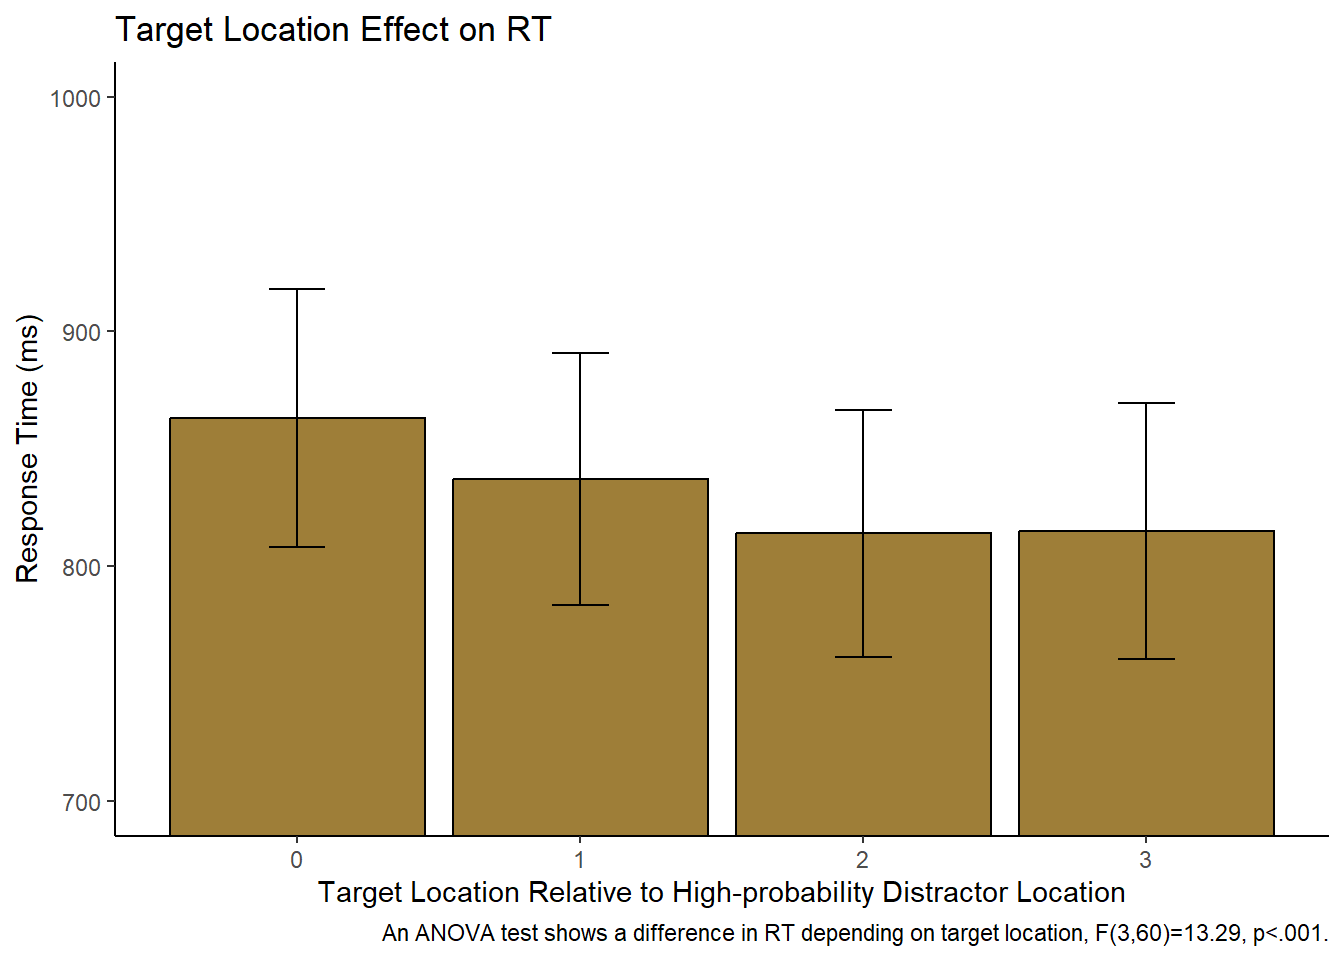
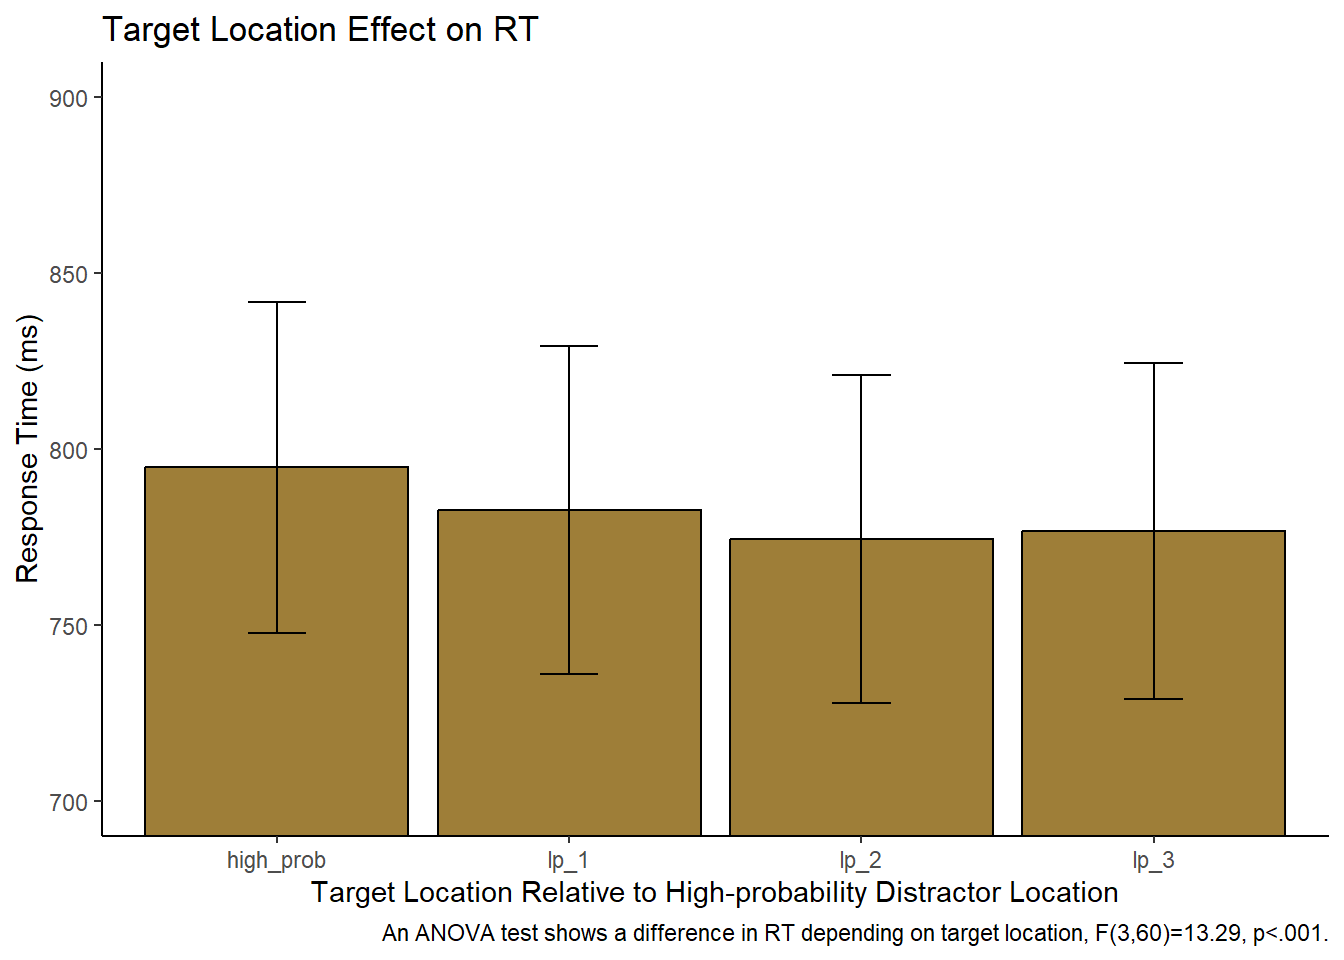
Added graph and t-test for HP and mean LP

diff --git a/docs/p02.html b/docs/p02.html
@@ -370,7 +370,12 @@ function.</p>
                      target_loc==&quot;loc3&quot; &amp; high_prob==6 ~ 3,
                      target_loc==&quot;loc4&quot; &amp; high_prob==6 ~ 2,
                      target_loc==&quot;loc5&quot; &amp; high_prob==6 ~ 1,
-                     target_loc==&quot;loc6&quot; &amp; high_prob==6 ~ 0,))</code></pre>
+                     target_loc==&quot;loc6&quot; &amp; high_prob==6 ~ 0,))
+
+pilot$relative_target[pilot$relative_target == 0] &lt;- &quot;high_prob&quot;
+pilot$relative_target[pilot$relative_target == 1] &lt;- &quot;lp_1&quot;
+pilot$relative_target[pilot$relative_target == 2] &lt;- &quot;lp_2&quot;
+pilot$relative_target[pilot$relative_target == 3] &lt;- &quot;lp_3&quot;</code></pre>
 </div>
 <div id="trim-the-data" class="section level3">
 <h3>Trim the Data</h3>
@@ -400,6 +405,7 @@ statPrep &lt;- trimmed %&gt;% group_by(ID, relative_hp_dist) %&gt;% summarise(me
 distractor location relative to the high-probability location and add
 columns for standard error.</p>
 <pre class="r"><code>target_means &lt;- trimmed %&gt;%
+  filter(relative_hp_dist==&quot;no_dist&quot;) %&gt;%
   group_by(relative_target) %&gt;%
   summarize(mean_rts=mean(RT),
             sd_rt=sd(RT),
@@ -411,11 +417,11 @@ columns for standard error.</p>
 target_means</code></pre>
 <pre><code>## # A tibble: 4 × 7
 ##   relative_target mean_rts sd_rt  n_rt    se upper_limit lower_limit
-##             &lt;dbl&gt;    &lt;dbl&gt; &lt;dbl&gt; &lt;dbl&gt; &lt;dbl&gt;       &lt;dbl&gt;       &lt;dbl&gt;
-## 1               0     863.  252.    21  54.9        918.        808.
-## 2               1     837.  246.    21  53.8        891.        783.
-## 3               2     814.  241.    21  52.7        867.        761.
-## 4               3     815.  251.    21  54.7        870.        760.</code></pre>
+##   &lt;chr&gt;              &lt;dbl&gt; &lt;dbl&gt; &lt;dbl&gt; &lt;dbl&gt;       &lt;dbl&gt;       &lt;dbl&gt;
+## 1 high_prob           795.  215.    21  47.0        842.        748.
+## 2 lp_1                783.  214.    21  46.7        829.        736.
+## 3 lp_2                774.  214.    21  46.6        821.        728.
+## 4 lp_3                777.  219.    21  47.7        824.        729.</code></pre>
 <p>This figure displays the mean response times depending on the
 location of the target relative to the high probability location of the
 distractor. I chose those particular colors based on Wake Forest’s color
@@ -423,13 +429,13 @@ scheme.</p>
 <pre class="r"><code>ggplot(data = target_means, aes(x = relative_target, y = mean_rts)) +
   geom_bar(stat = &quot;identity&quot;, fill=&quot;#9E7E38&quot;, color=&#39;#000000&#39;) +
   geom_errorbar(aes(ymin=lower_limit, ymax=upper_limit), width=0.2)+
-  coord_cartesian(ylim = c(700,1000))+
+  coord_cartesian(ylim = c(700,900))+
   theme_classic()+
   labs(x = &quot;Target Location Relative to High-probability Distractor Location&quot;, y = &quot;Response Time (ms)&quot;)+
   labs(title = &quot;Target Location Effect on RT&quot;)+
   labs(caption = &quot;An ANOVA test shows a difference in RT depending on target location, F(3,60)=13.29, p&lt;.001.&quot;)</code></pre>
 <p><img src="p02_files/figure-html/-%20graph%201%20-%20distractor%20location%20effect%20on%20rt-1.png" width="672" /></p>
-<pre class="r"><code>df2 &lt;- subset(trimmed,block_num!=&#39;7&#39; )
+<pre class="r"><code>df2 &lt;- subset(trimmed,block_num!=&#39;7&#39; &amp; relative_hp_dist==&quot;no_dist&quot;)
 df2 &lt;- subset(df2,block_num!=&#39;8&#39;)
 #df2 &lt;- subset(df2,block_num!=&#39;5&#39;)
 #df2 &lt;- subset(df2,block_num!=&#39;6&#39;)
@@ -444,24 +450,24 @@ space2&lt;- df2 %&gt;%
 <pre><code>## # A tibble: 84 × 3
 ## # Groups:   ID [21]
 ##       ID relative_target   rts
-##    &lt;dbl&gt;           &lt;dbl&gt; &lt;dbl&gt;
-##  1    11               0 1232.
-##  2    11               1 1195.
-##  3    11               2 1204.
-##  4    11               3 1237.
-##  5    12               0  840.
-##  6    12               1  818.
-##  7    12               2  764.
-##  8    12               3  786.
-##  9    13               0  819.
-## 10    13               1  792.
+##    &lt;dbl&gt; &lt;chr&gt;           &lt;dbl&gt;
+##  1    11 high_prob       1150.
+##  2    11 lp_1            1092.
+##  3    11 lp_2            1113.
+##  4    11 lp_3            1150.
+##  5    12 high_prob        802.
+##  6    12 lp_1             779.
+##  7    12 lp_2             729.
+##  8    12 lp_3             742.
+##  9    13 high_prob        771.
+## 10    13 lp_1             766.
 ## # … with 74 more rows</code></pre>
 <pre class="r"><code>aov_car(rts ~ relative_target + Error(ID/relative_target), data=space2)</code></pre>
 <pre><code>## Anova Table (Type 3 tests)
 ## 
 ## Response: rts
-##            Effect          df     MSE         F  ges p.value
-## 1 relative_target 1.84, 36.83 1342.99 12.49 *** .019   &lt;.001
+##            Effect          df     MSE    F  ges p.value
+## 1 relative_target 2.39, 47.74 1058.05 2.29 .004    .103
 ## ---
 ## Signif. codes:  0 &#39;***&#39; 0.001 &#39;**&#39; 0.01 &#39;*&#39; 0.05 &#39;+&#39; 0.1 &#39; &#39; 1
 ## 
@@ -470,6 +476,7 @@ space2&lt;- df2 %&gt;%
 distractor location per participant, so we can do a repeated measures
 ANOVA.</p>
 <pre class="r"><code>space &lt;- trimmed %&gt;%
+  subset(relative_hp_dist==&quot;no_dist&quot;)%&gt;%
   group_by(ID, relative_target) %&gt;%
   summarize(rts = mean(RT),
             )</code></pre>
@@ -479,17 +486,17 @@ ANOVA.</p>
 <pre><code>## # A tibble: 84 × 3
 ## # Groups:   ID [21]
 ##       ID relative_target   rts
-##    &lt;dbl&gt;           &lt;dbl&gt; &lt;dbl&gt;
-##  1    11               0 1198.
-##  2    11               1 1191.
-##  3    11               2 1152.
-##  4    11               3 1214.
-##  5    12               0  808.
-##  6    12               1  792.
-##  7    12               2  750.
-##  8    12               3  753.
-##  9    13               0  792.
-## 10    13               1  768.
+##    &lt;dbl&gt; &lt;chr&gt;           &lt;dbl&gt;
+##  1    11 high_prob       1088.
+##  2    11 lp_1            1083.
+##  3    11 lp_2            1056.
+##  4    11 lp_3            1118.
+##  5    12 high_prob        768.
+##  6    12 lp_1             749.
+##  7    12 lp_2             706.
+##  8    12 lp_3             717.
+##  9    13 high_prob        748.
+## 10    13 lp_1             743.
 ## # … with 74 more rows</code></pre>
 <p>Need to reformat the above df to have a column for each
 relative_hp_dist/ID.</p>
@@ -499,25 +506,31 @@ space_anova &lt;- dcast(space_anova,ID~relative_target,value.var=&#39;rts&#39;)<
 space %&gt;%
   group_by(relative_target) %&gt;%
   identify_outliers(rts)</code></pre>
-<pre><code>## # A tibble: 5 × 5
-##   relative_target    ID   rts is.outlier is.extreme
-##             &lt;dbl&gt; &lt;dbl&gt; &lt;dbl&gt; &lt;lgl&gt;      &lt;lgl&gt;     
-## 1               0    11 1198. TRUE       FALSE     
-## 2               1    11 1191. TRUE       FALSE     
-## 3               2    11 1152. TRUE       FALSE     
-## 4               2    20 1092. TRUE       FALSE     
-## 5               3    11 1214. TRUE       FALSE</code></pre>
+<pre><code>## # A tibble: 11 × 5
+##    relative_target    ID   rts is.outlier is.extreme
+##    &lt;chr&gt;           &lt;dbl&gt; &lt;dbl&gt; &lt;lgl&gt;      &lt;lgl&gt;     
+##  1 high_prob          11 1088. TRUE       FALSE     
+##  2 high_prob          28 1044. TRUE       FALSE     
+##  3 lp_1               11 1083. TRUE       TRUE      
+##  4 lp_1               20  983. TRUE       FALSE     
+##  5 lp_2               11 1056. TRUE       TRUE      
+##  6 lp_2               20 1004. TRUE       FALSE     
+##  7 lp_2               28  931. TRUE       FALSE     
+##  8 lp_3               11 1118. TRUE       TRUE      
+##  9 lp_3               17  603. TRUE       FALSE     
+## 10 lp_3               20 1001. TRUE       FALSE     
+## 11 lp_3               28  966. TRUE       FALSE</code></pre>
 <pre class="r"><code>#testing the normality assumption -- data is normally distributed enough because no conditions have a p-value less than .05
 space %&gt;%
   group_by(relative_target) %&gt;%
   shapiro_test(rts)</code></pre>
 <pre><code>## # A tibble: 4 × 4
 ##   relative_target variable statistic      p
-##             &lt;dbl&gt; &lt;chr&gt;        &lt;dbl&gt;  &lt;dbl&gt;
-## 1               0 rts          0.925 0.110 
-## 2               1 rts          0.911 0.0562
-## 3               2 rts          0.899 0.0332
-## 4               3 rts          0.909 0.0528</code></pre>
+##   &lt;chr&gt;           &lt;chr&gt;        &lt;dbl&gt;  &lt;dbl&gt;
+## 1 high_prob       rts          0.900 0.0352
+## 2 lp_1            rts          0.920 0.0887
+## 3 lp_2            rts          0.903 0.0392
+## 4 lp_3            rts          0.883 0.0164</code></pre>
 <p>Assumption of sphericity is automatically checked during the ANOVA
 test. Next, we’ll do the ANOVA test. The ANOVA shows a significant
 difference among distractor locations, F(1.74,34.86)=12.925,
@@ -526,8 +539,8 @@ p&lt;.001.</p>
 get_anova_table(res.aov)</code></pre>
 <pre><code>## ANOVA Table (type III tests)
 ## 
-##            Effect  DFn   DFd      F        p p&lt;.05   ges
-## 1 relative_target 1.72 34.48 13.286 0.000105     * 0.023</code></pre>
+##            Effect  DFn   DFd     F     p p&lt;.05   ges
+## 1 relative_target 2.18 43.51 2.198 0.119       0.005</code></pre>
 <p>I ran the ANOVA using base R as well because the rstatix package was
 giving me errors when running for accuracy data later on. The rstatix
 packages has a lot of requests and hasn’t been updated in years so I
@@ -538,12 +551,12 @@ summary(model)</code></pre>
 <pre><code>## 
 ## Error: factor(ID)
 ##           Df  Sum Sq Mean Sq F value Pr(&gt;F)
-## Residuals 20 1431400   71570               
+## Residuals 20 1086156   54308               
 ## 
 ## Error: Within
-##                         Df Sum Sq Mean Sq F value   Pr(&gt;F)    
-## factor(relative_target)  3  34363   11454   13.29 9.34e-07 ***
-## Residuals               60  51729     862                     
+##                         Df Sum Sq Mean Sq F value Pr(&gt;F)  
+## factor(relative_target)  3   5130  1709.9   2.198 0.0975 .
+## Residuals               60  46670   777.8                 
 ## ---
 ## Signif. codes:  0 &#39;***&#39; 0.001 &#39;**&#39; 0.01 &#39;*&#39; 0.05 &#39;.&#39; 0.1 &#39; &#39; 1</code></pre>
 <pre class="r"><code>model2 &lt;- aov_car(rts ~ relative_target + Error(ID/relative_target), data=space)
@@ -552,12 +565,60 @@ model2</code></pre>
 <pre><code>## Anova Table (Type 3 tests)
 ## 
 ## Response: rts
-##            Effect          df     MSE         F  ges p.value
-## 1 relative_target 1.72, 34.48 1500.47 13.29 *** .023   &lt;.001
+##            Effect          df     MSE    F  ges p.value
+## 1 relative_target 2.18, 43.51 1072.62 2.20 .005    .119
 ## ---
 ## Signif. codes:  0 &#39;***&#39; 0.001 &#39;**&#39; 0.01 &#39;*&#39; 0.05 &#39;+&#39; 0.1 &#39; &#39; 1
 ## 
 ## Sphericity correction method: GG</code></pre>
+<p>This next section will examine the differences between response times
+when averaging across low-probability locations.</p>
+<pre class="r"><code>space_anova &lt;- space_anova %&gt;%
+  mutate(low_prob = (lp_1+lp_2+lp_3)/3)</code></pre>
+<pre class="r"><code>df_mod &lt;- subset(space_anova, select=c(ID, high_prob, low_prob))
+
+df_mod &lt;- reshape2::melt(df_mod, id.var=c(&#39;ID&#39;), variable.name= &quot;relative_target&quot;)</code></pre>
+<pre class="r"><code>sum_stats2 &lt;- df_mod%&gt;%
+  group_by(relative_target)%&gt;%
+  summarize(mean_rts=mean(value),
+            sd_rt=sd(value),
+            n_rt=21,
+            se=sd_rt/sqrt(n_rt),
+            upper_limit=mean_rts+se,
+            lower_limit=mean_rts-se
+  )
+sum_stats2</code></pre>
+<pre><code>## # A tibble: 2 × 7
+##   relative_target mean_rts sd_rt  n_rt    se upper_limit lower_limit
+##   &lt;fct&gt;              &lt;dbl&gt; &lt;dbl&gt; &lt;dbl&gt; &lt;dbl&gt;       &lt;dbl&gt;       &lt;dbl&gt;
+## 1 high_prob           795.  120.    21  26.1        821.        769.
+## 2 low_prob            778.  117.    21  25.6        803.        752.</code></pre>
+<p>This figure displays the mean response times depending on the
+location of the target relative to the high probability location. I
+chose those particular colors based on Wake Forest’s color scheme.</p>
+<pre class="r"><code>ggplot(data = sum_stats2, aes(x = relative_target, y = mean_rts)) +
+  geom_bar(stat = &quot;identity&quot;, fill=&quot;#9E7E38&quot;, color=&#39;#000000&#39;) +
+  geom_errorbar(aes(ymin=lower_limit, ymax=upper_limit), width=0.2)+
+  coord_cartesian(ylim = c(700,850))+
+  theme_classic()+
+  labs(x = &quot;Target Location&quot;, y = &quot;Response Time (ms)&quot;)+
+  labs(title = &quot;Target Location Effect on RT&quot;)+
+  labs(caption = &quot;A t-test shows a difference in RT depending on distractor location, t(20)=1.91, p=.035.&quot;)</code></pre>
+<p><img src="p02_files/figure-html/-%20graph%202%20-%20target%20location%20effect%20on%20rt-1.png" width="672" /></p>
+<p>Determine if the difference between response times when the target is
+in the high-probabilty vs. low-probability locations is significant.</p>
+<pre class="r"><code>t.test(x=space_anova$high_prob, y=space_anova$low_prob, alternative=&quot;greater&quot;, mu=0,paired = TRUE, conf.level = .95)</code></pre>
+<pre><code>## 
+##  Paired t-test
+## 
+## data:  space_anova$high_prob and space_anova$low_prob
+## t = 1.9136, df = 20, p-value = 0.03504
+## alternative hypothesis: true mean difference is greater than 0
+## 95 percent confidence interval:
+##  1.688679      Inf
+## sample estimates:
+## mean difference 
+##        17.10478</code></pre>
 </div>
 <div id="distractor-and-target-location-effects-on-accuracy"
 class="section level3">
@@ -572,6 +633,7 @@ class="section level3">
             lower_limit=accuracy-se
             )
 pilot_targacc &lt;- pilot %&gt;%
+  subset(relative_hp_dist==&quot;no_dist&quot;)%&gt;%
   group_by(relative_target) %&gt;%
   summarize(accuracy = mean(acc),
             sd_rt=sd(acc),
@@ -621,6 +683,7 @@ pilot_targacc &lt;- pilot %&gt;%
 ## 10    12 no_dist              99.6
 ## # … with 95 more rows</code></pre>
 <pre class="r"><code>pilot_targ &lt;- pilot %&gt;%
+  subset(relative_hp_dist==&quot;no_dist&quot;)%&gt;%
   group_by(ID, relative_target) %&gt;%
   summarize(accuracy = mean(acc)
             )</code></pre>
@@ -630,17 +693,17 @@ pilot_targacc &lt;- pilot %&gt;%
 <pre><code>## # A tibble: 84 × 3
 ## # Groups:   ID [21]
 ##       ID relative_target accuracy
-##    &lt;dbl&gt;           &lt;dbl&gt;    &lt;dbl&gt;
-##  1    11               0     91.2
-##  2    11               1     96.2
-##  3    11               2     96.2
-##  4    11               3     98.8
-##  5    12               0     97.5
-##  6    12               1     98.8
-##  7    12               2     98.1
-##  8    12               3    100  
-##  9    13               0    100  
-## 10    13               1     99.4
+##    &lt;dbl&gt; &lt;chr&gt;              &lt;dbl&gt;
+##  1    11 high_prob           97.5
+##  2    11 lp_1                97.5
+##  3    11 lp_2                97.5
+##  4    11 lp_3               100  
+##  5    12 high_prob          100  
+##  6    12 lp_1               100  
+##  7    12 lp_2                98.8
+##  8    12 lp_3               100  
+##  9    13 high_prob          100  
+## 10    13 lp_1               100  
 ## # … with 74 more rows</code></pre>
 <pre class="r"><code>model = aov(accuracy~factor(relative_hp_dist)+
                 Error(factor(ID)), data=pilot_dist)
@@ -674,30 +737,28 @@ summary(model)</code></pre>
 <pre><code>## 
 ## Error: factor(ID)
 ##           Df Sum Sq Mean Sq F value Pr(&gt;F)
-## Residuals 20  288.3   14.41               
+## Residuals 20  225.9   11.29               
 ## 
 ## Error: Within
-##                         Df Sum Sq Mean Sq F value  Pr(&gt;F)   
-## factor(relative_target)  3  34.75  11.582   4.549 0.00614 **
-## Residuals               60 152.75   2.546                   
-## ---
-## Signif. codes:  0 &#39;***&#39; 0.001 &#39;**&#39; 0.01 &#39;*&#39; 0.05 &#39;.&#39; 0.1 &#39; &#39; 1</code></pre>
+##                         Df Sum Sq Mean Sq F value Pr(&gt;F)
+## factor(relative_target)  3  11.22   3.739   1.211  0.314
+## Residuals               60 185.27   3.088</code></pre>
 <pre class="r"><code>model2 &lt;- aov_car(accuracy ~ relative_target + Error(ID/relative_target), data=pilot_targ)
 
 model2</code></pre>
 <pre><code>## Anova Table (Type 3 tests)
 ## 
 ## Response: accuracy
-##            Effect          df  MSE       F  ges p.value
-## 1 relative_target 2.51, 50.18 3.04 4.55 ** .073    .010
+##            Effect          df  MSE    F  ges p.value
+## 1 relative_target 2.46, 49.12 3.77 1.21 .027    .312
 ## ---
 ## Signif. codes:  0 &#39;***&#39; 0.001 &#39;**&#39; 0.01 &#39;*&#39; 0.05 &#39;+&#39; 0.1 &#39; &#39; 1
 ## 
 ## Sphericity correction method: GG</code></pre>
-<pre class="r"><code>df3 &lt;- subset(pilot,block_num!=&#39;7&#39; )
+<pre class="r"><code>df3 &lt;- subset(pilot,block_num!=&#39;7&#39;)
 df3 &lt;- subset(df3,block_num!=&#39;8&#39;)
-#df3 &lt;- subset(df3,block_num!=&#39;5&#39;)
-#df3 &lt;- subset(df3,block_num!=&#39;6&#39;)</code></pre>
+df3 &lt;- subset(df3,block_num!=&#39;5&#39;)
+df3 &lt;- subset(df3,block_num!=&#39;6&#39;)</code></pre>
 <pre class="r"><code>pilot_dist3 &lt;- df3 %&gt;%
   group_by(ID, relative_hp_dist) %&gt;%
   summarize(accuracy = mean(acc)
@@ -705,6 +766,7 @@ df3 &lt;- subset(df3,block_num!=&#39;8&#39;)
 <pre><code>## `summarise()` has grouped output by &#39;ID&#39;. You can override using the `.groups`
 ## argument.</code></pre>
 <pre class="r"><code>pilot_targ3 &lt;- df3 %&gt;%
+  subset(relative_hp_dist=&quot;no_dist&quot;)%&gt;%
   group_by(ID, relative_target) %&gt;%
   summarize(accuracy = mean(acc)
             )</code></pre>
@@ -715,7 +777,7 @@ df3 &lt;- subset(df3,block_num!=&#39;8&#39;)
 ## 
 ## Response: accuracy
 ##             Effect          df   MSE      F  ges p.value
-## 1 relative_hp_dist 1.40, 28.09 74.89 2.73 + .080    .098
+## 1 relative_hp_dist 1.89, 37.78 47.82 3.02 + .075    .064
 ## ---
 ## Signif. codes:  0 &#39;***&#39; 0.001 &#39;**&#39; 0.01 &#39;*&#39; 0.05 &#39;+&#39; 0.1 &#39; &#39; 1
 ## 
@@ -725,7 +787,7 @@ df3 &lt;- subset(df3,block_num!=&#39;8&#39;)
 ## 
 ## Response: accuracy
 ##            Effect          df  MSE      F  ges p.value
-## 1 relative_target 2.16, 43.11 5.00 3.74 * .071    .029
+## 1 relative_target 2.16, 43.11 9.46 2.75 + .066    .071
 ## ---
 ## Signif. codes:  0 &#39;***&#39; 0.001 &#39;**&#39; 0.01 &#39;*&#39; 0.05 &#39;+&#39; 0.1 &#39; &#39; 1
 ## 
